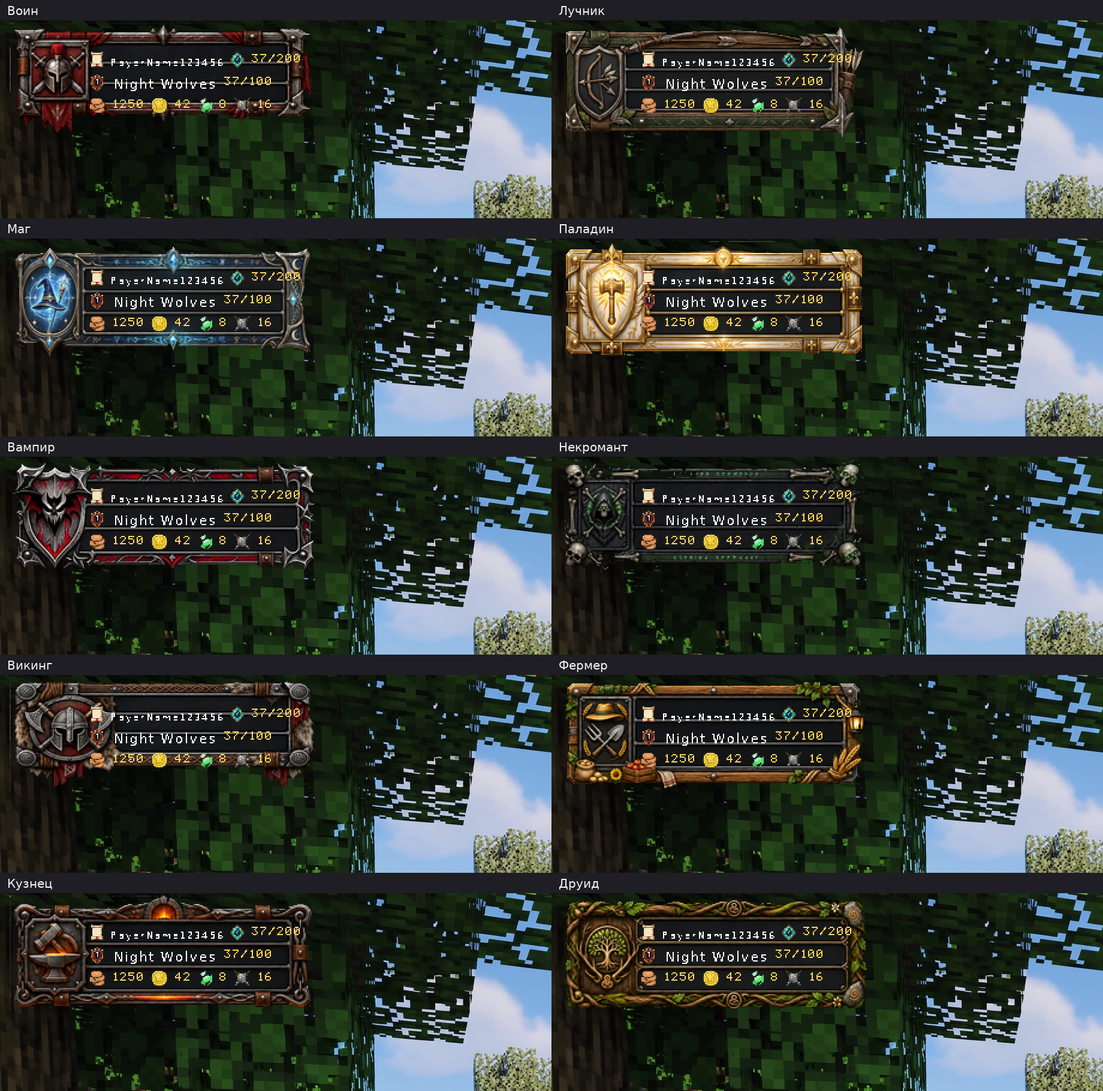
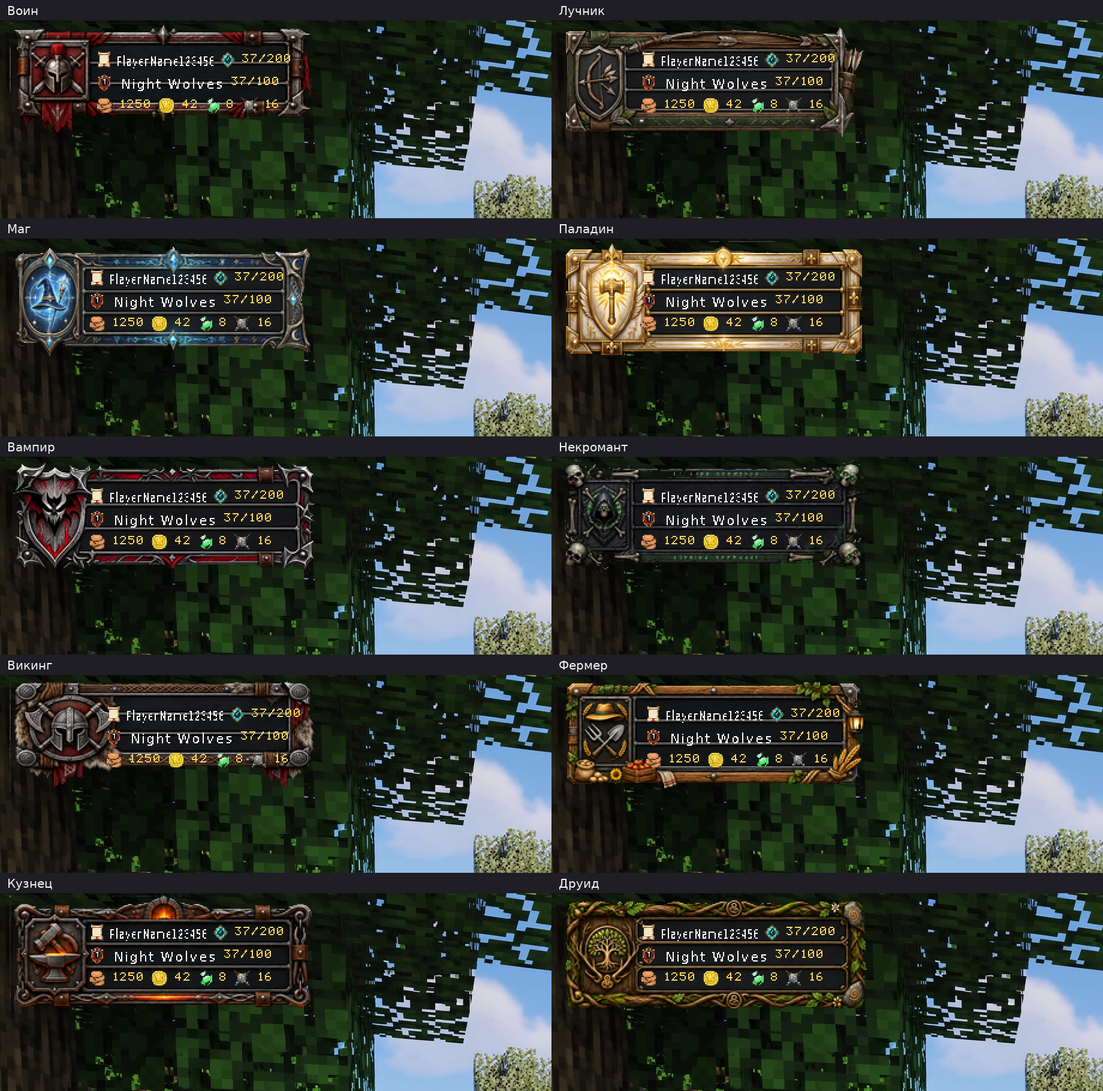
fix(hud): align class text within panel artwork

diff --git a/plugins/servermmo-hud/src/main/java/ru/servermmo/hud/HudText.java b/plugins/servermmo-hud/src/main/java/ru/servermmo/hud/HudText.java
@@ -16,9 +16,9 @@ import net.kyori.adventure.text.format.Style;
  * Раскладка панели HUD из глифов ресурспака.
  *
  * <p>Клиент рисует панель строками босс-бара и сам центрует каждую строку.
- * Центр любой строки - это offset/2 относительно центра экрана, и от ширины
- * самой строки он не зависит: поэтому текст встаёт по центру панели сам, а
- * подгонять строки под одну ширину не нужно.</p>
+ * Поэтому строки дополняются пробелами до ширины подложки: центр остаётся
+ * общим, а текст можно начать с отдельной координаты под эмблемой каждого
+ * класса.</p>
  *
  * <p>Отсюда же и вся арифметика отступов (подробно в {@link HudLayout}):
  * сдвиг двигает строку на <b>половину</b> своей величины, а ширина
@@ -275,21 +275,31 @@ final class HudText {
      * Ник первой строки: при достижении 11 символов переходит на компактный
      * шрифт; если даже в нём строка не помещается, аккуратно обрезается.
      */
-    private int titleBudget(char diamond, String xpFraction, boolean small) {
+    private int titleBudget(char diamond, String xpFraction, boolean small, int contentLeft) {
         int iconGap = small ? 3 : ICON_GAP;
         int columnGap = small ? 4 : COLUMN_GAP;
-        return (CONTENT_RIGHT - CONTENT_LEFT) - width(MONEY_SCROLL) - iconGap
+        return (CONTENT_RIGHT - contentLeft) - width(MONEY_SCROLL) - iconGap
                 - width(diamond) - columnGap - width(xpFraction) - columnGap;
     }
 
     private String fitTitle(String playerName, char diamond, String xpFraction,
-                            int texty, boolean small) {
-        int budget = titleBudget(diamond, xpFraction, small);
+                            int texty, boolean small, int contentLeft) {
+        int budget = titleBudget(diamond, xpFraction, small, contentLeft);
         String name = playerName == null ? "" : playerName;
         while (textWidth(name, texty, small) > budget && !name.isEmpty()) {
             name = name.substring(0, name.length() - 1);
         }
         return name;
+    }
+
+    /** Индивидуальная граница текста под эмблемой и рамкой каждой панели. */
+    private static int contentLeft(int classIndex) {
+        return switch (classIndex) {
+            case 0 -> 72; // воин: отступить от выступов щита
+            case 6 -> 80; // викинг: крупный круглый щит занимает больше места
+            case 7 -> 70; // фермер: оставить место корзине у нижней строки
+            default -> CONTENT_LEFT;
+        };
     }
 
     /** Ширина глифа-панели класса: по ней считается сдвиг всей панели. */
@@ -338,10 +348,10 @@ final class HudText {
      * класса. Вторая - клан: щит уровня, название и опыт клана дробью;
      * третья - четыре валюты.</p>
      *
-     * <p>Все три строки получают один и тот же сдвиг {@code P}, поэтому их
-     * центры совпадают (центр строки всегда в {@code W/2 + P/2}), а левый
-     * край панели стоит ровно в {@code margin-left} от края экрана — см.
-     * {@link HudLayout}. Ставить сдвиг в конфиг нельзя: он в пикселях
+     * <p>Все три строки получают один и тот же сдвиг {@code P} и добиваются
+     * до полной ширины панели, поэтому их центры совпадают. Начало текста
+     * выбирается отдельно для класса с учётом ширины его эмблемы и декора.
+     * Ставить сдвиг в конфиг нельзя: он в пикселях
      * интерфейса и при смене масштаба GUI меняется в разы.</p>
      *
      * @param layout геометрия под экран игрока (ширина интерфейса и отступ)
@@ -356,6 +366,7 @@ final class HudText {
                 offsetY + PANEL_OFFSET_RANGE));
         char panelGlyph = (char) (PANEL_BASE + variant * PANEL_CLASS_COUNT + profile.classIndex());
         int panelWidth = width(panelGlyph);
+        int contentLeft = contentLeft(profile.classIndex());
         int offset = layout.panelShift(panelWidth);
 
         // Строка 1: после эмблемы курсор возвращается к общей левой границе
@@ -365,17 +376,19 @@ final class HudText {
         char diamond = (char) (LEVEL_BASE + levelIndex(level));
         String playerTitle = playerName == null ? "" : playerName;
         boolean smallTitle = playerTitle.length() >= 11
-                || textWidth(playerTitle, texty) > titleBudget(diamond, xpFraction, false);
+                || textWidth(playerTitle, texty)
+                > titleBudget(diamond, xpFraction, false, contentLeft);
         int titleIconGap = smallTitle ? 3 : ICON_GAP;
         int titleColumnGap = smallTitle ? 4 : COLUMN_GAP;
-        String title = fitTitle(playerTitle, diamond, xpFraction, texty, smallTitle);
+        String title = fitTitle(playerTitle, diamond, xpFraction, texty,
+                smallTitle, contentLeft);
         int titleW = width(MONEY_SCROLL) + titleIconGap + textWidth(title, texty, smallTitle)
                 + titleColumnGap + width(diamond) + titleColumnGap + width(xpFraction);
-        int titleTail = Math.max(0, panelWidth - CONTENT_LEFT - titleW);
+        int titleTail = Math.max(0, panelWidth - contentLeft - titleW);
 
         Component first = Component.text(shift(offset), GLYPHS)
                 .append(Component.text(String.valueOf(panelGlyph), GLYPHS))
-                .append(Component.text(shift(-(panelWidth - CONTENT_LEFT)), GLYPHS))
+                .append(Component.text(shift(-(panelWidth - contentLeft)), GLYPHS))
                 .append(Component.text(MONEY_SCROLL + pad(titleIconGap), GLYPHS))
                 .append(Component.text(toGlyphs(title, texty, smallTitle), GLYPHS))
                 .append(Component.text(pad(titleColumnGap) + diamond + pad(titleColumnGap)
@@ -387,15 +400,15 @@ final class HudText {
         char clanShield = (char) (CLAN_BASE + levelIndex(profile.clanLevel()));
         String clanXp = profile.clanXp() + "/" + profile.clanXpToNext();
         String clanName = profile.clanName().isEmpty() ? "Без клана" : profile.clanName();
-        int clanBudget = (CONTENT_RIGHT - CONTENT_LEFT) - width(clanShield) - COLUMN_GAP
+        int clanBudget = (CONTENT_RIGHT - contentLeft) - width(clanShield) - COLUMN_GAP
                 - COLUMN_GAP - width(clanXp);
         while (textWidth(clanName, texty) > clanBudget && !clanName.isEmpty()) {
             clanName = clanName.substring(0, clanName.length() - 1);
         }
         int clanW = width(clanShield) + COLUMN_GAP + textWidth(clanName, texty)
                 + COLUMN_GAP + width(clanXp);
-        int clanTail = Math.max(0, panelWidth - CONTENT_LEFT - clanW);
-        Component second = Component.text(shift(offset) + pad(CONTENT_LEFT), GLYPHS)
+        int clanTail = Math.max(0, panelWidth - contentLeft - clanW);
+        Component second = Component.text(shift(offset) + pad(contentLeft), GLYPHS)
                 .append(Component.text(String.valueOf(clanShield) + pad(COLUMN_GAP), GLYPHS))
                 .append(Component.text(toGlyphs(clanName, texty), GLYPHS))
                 .append(Component.text(pad(COLUMN_GAP) + clanXp, GLYPHS))
@@ -407,8 +420,8 @@ final class HudText {
                 + MONEY_GEM + pad(ICON_GAP) + profile.nanogems() + pad(COLUMN_GAP)
                 + MONEY_BATTLE + pad(ICON_GAP) + profile.battlePoints();
         int moneyW = width(money);
-        int moneyTail = Math.max(0, panelWidth - CONTENT_LEFT - moneyW);
-        Component third = Component.text(shift(offset) + pad(CONTENT_LEFT) + money
+        int moneyTail = Math.max(0, panelWidth - contentLeft - moneyW);
+        Component third = Component.text(shift(offset) + pad(contentLeft) + money
                 + pad(moneyTail), GLYPHS);
 
         return new Component[]{first, second, third};

diff --git a/tools/build_text_font.py b/tools/build_text_font.py
@@ -31,8 +31,8 @@ TEXT_CHARS = (
 TEXT_COLS = 19
 CELL = 16          # ячейка атласа, px
 BASELINE = 9       # базовая линия внутри ячейки (от верха)
-SIZE = 11          # обычный кегль DejaVuSans: заглавные около 8 px
-SMALL_SIZE = 8     # компактный ник: меньше примерно на четверть
+SIZE = 11              # обычный кегль DejaVuSans: заглавные около 8 px
+SMALL_SCALE_X = 0.64   # сжимаем ник только по ширине, сохраняя высоту и читаемость
 SMALL_OUT = OUT.with_name("hud_text_small.png")
 
 
@@ -47,12 +47,18 @@ def render_char(font: ImageFont.FreeTypeFont, ch: str) -> Image.Image:
     return img.point(lambda p: 255 if p > 128 else 0)
 
 
-def build_atlas(size: int) -> Image.Image:
+def build_atlas(size: int, scale_x: float = 1.0) -> Image.Image:
     font = ImageFont.truetype(FONT_PATH, size)
     rows = (len(TEXT_CHARS) + TEXT_COLS - 1) // TEXT_COLS
     atlas = Image.new("RGBA", (TEXT_COLS * CELL, rows * CELL), (0, 0, 0, 0))
     for index, ch in enumerate(TEXT_CHARS):
         alpha = render_char(font, ch)
+        if scale_x != 1.0:
+            scaled_width = max(1, round(CELL * scale_x))
+            alpha = alpha.resize((scaled_width, CELL), Image.Resampling.NEAREST)
+            cell = Image.new("L", (CELL, CELL), 0)
+            cell.paste(alpha, (0, 0))
+            alpha = cell
         # Белый глиф: цвет задаёт стиль текста, альфа — форма.
         white = Image.new("RGBA", alpha.size, (255, 255, 255, 255))
         white.putalpha(alpha)
@@ -63,8 +69,9 @@ def build_atlas(size: int) -> Image.Image:
 
 def main() -> int:
     OUT.parent.mkdir(parents=True, exist_ok=True)
-    for path, size in ((OUT, SIZE), (SMALL_OUT, SMALL_SIZE)):
-        atlas = build_atlas(size)
+    for path, size, scale_x in ((OUT, SIZE, 1.0),
+                                (SMALL_OUT, SIZE, SMALL_SCALE_X)):
+        atlas = build_atlas(size, scale_x)
         atlas.save(path, optimize=True)
         print(f"{path.name}: {atlas.width}x{atlas.height}, глифов {len(TEXT_CHARS)}")
     return 0

diff --git a/tools/README.md b/tools/README.md
@@ -51,8 +51,8 @@ bash   tools/test-linux.sh          # поведение .sh (Linux/macOS)
   заглавных букв и цифр ванильного `ascii.png` (там ровно те же строки,
   строка 7 пустая), иначе рядом с ванильным именем моба значки «прыгают».
   Нужен Pillow, запускается вручную, в CI не нужен.
-* `tools/build_text_font.py` — пересобирает атласы обычного и компактного
-  текста из DejaVu Sans; компактный шрифт выбирается для ников от 11 символов.
+* `tools/build_text_font.py` — пересобирает атласы обычного и сжатого по
+  ширине текста из DejaVu Sans; компактный шрифт выбирается для ников от 11 символов.
 * `tools/gen_font_metrics.py` — считает ширину каждого глифа по атласам
   (последний непрозрачный пиксель + 1) и пишет
   `plugins/servermmo-hud/src/main/resources/font-metrics.properties`. Без этой
